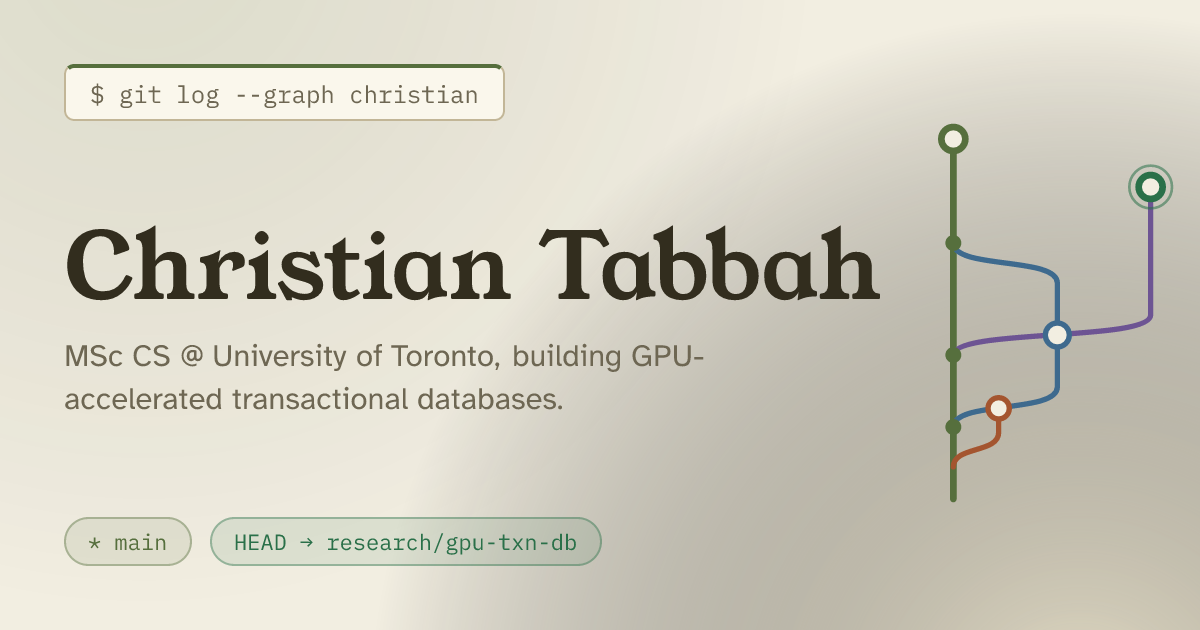
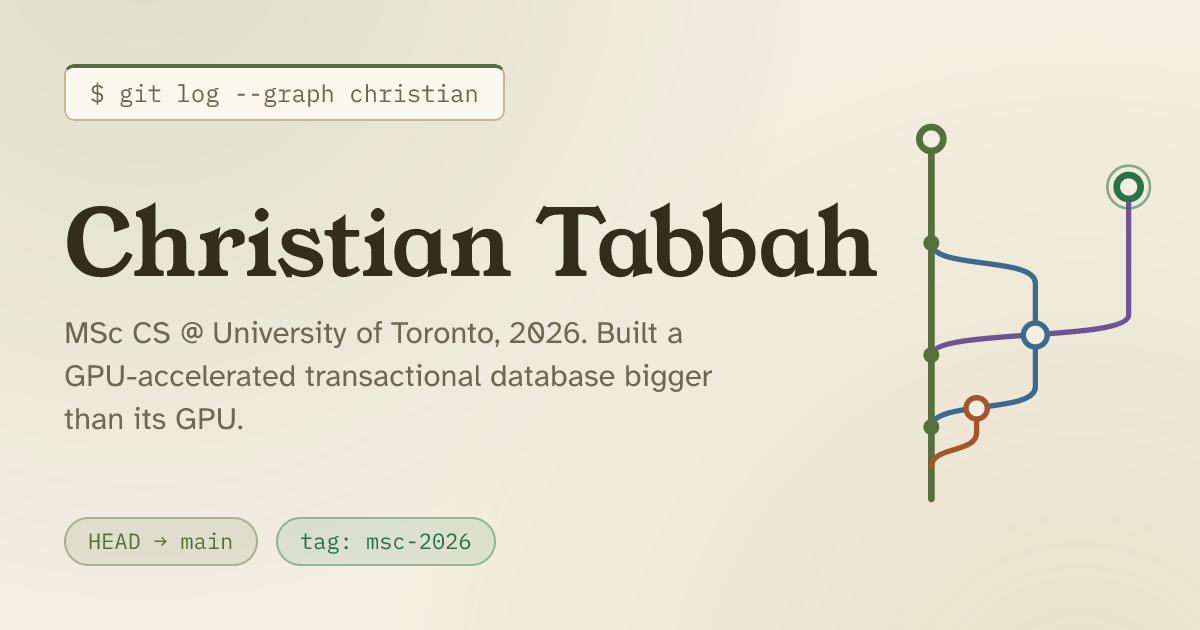
content: MSc and research wrap October 2026, both merge into main
Graduated October 26, 2026. The MSc and GPU transactional DB entries
end 2026-10 and merge back into main; no branch carries HEAD now, and
TIMELINE_NOW moves to 2026-11. Hero, milestone, and meta copy move to
past tense. The OG image is regenerated with the new text; the
generator now sets box-sizing, no-wrap, and flex-shrink explicitly so
current satori reproduces the original layout.

diff --git a/index.html b/index.html
@@ -14,7 +14,7 @@
     <title>Christian Tabbah · systems, databases, GPUs</title>
     <meta
       name="description"
-      content="MSc CS student at the University of Toronto building GPU-accelerated transactional databases. Longtime TA, ex-full-stack dev, black belt. My life, rendered as a git graph."
+      content="MSc CS grad from the University of Toronto who built a GPU-accelerated transactional database bigger than its GPU. Longtime TA, ex-full-stack dev, black belt. My life, rendered as a git graph."
     />
     <link rel="canonical" href="https://christiantabbah.com/" />
     <meta name="theme-color" content="#242b1c" />
@@ -23,7 +23,7 @@
     <meta property="og:title" content="Christian Tabbah · systems, databases, GPUs" />
     <meta
       property="og:description"
-      content="MSc CS student at UofT building GPU-accelerated transactional databases. My life, rendered as a git graph."
+      content="MSc CS grad from UofT who built a GPU-accelerated transactional database bigger than its GPU. My life, rendered as a git graph."
     />
     <meta property="og:url" content="https://christiantabbah.com/" />
     <meta property="og:image" content="https://christiantabbah.com/og.png" />
@@ -33,7 +33,7 @@
     <meta name="twitter:title" content="Christian Tabbah · systems, databases, GPUs" />
     <meta
       name="twitter:description"
-      content="MSc CS student at UofT building GPU-accelerated transactional databases. My life, rendered as a git graph."
+      content="MSc CS grad from UofT who built a GPU-accelerated transactional database bigger than its GPU. My life, rendered as a git graph."
     />
     <meta name="twitter:image" content="https://christiantabbah.com/og.png" />
   </head>

diff --git a/src/data/timeline.ts b/src/data/timeline.ts
@@ -22,7 +22,7 @@ export interface TimelineEntry {
 }
 
 /** Upper bound of the graph; bump this when adding new ongoing months. */
-export const TIMELINE_NOW: YM = '2026-07'
+export const TIMELINE_NOW: YM = '2026-11'
 
 export const timeline: TimelineEntry[] = [
   {
@@ -32,12 +32,10 @@ export const timeline: TimelineEntry[] = [
     org: 'University of Toronto',
     short: 'MSc research: GPU transactional DB',
     start: '2024-09',
-    end: 'ongoing',
-    refName: 'research/gpu-txn-db',
-    head: true,
+    end: '2026-10',
     bullets: [
       'Supervised by Dr. Angela Demke Brown & Dr. Ashvin Goel.',
-      'Building a GPU transactional database that operates beyond VRAM limits.',
+      'Built a GPU transactional database that operates beyond VRAM limits.',
       'GPU staging & eviction layer: device free-list ring, epoch-aware hot cache, selective dirty write-back, scatter-gather DMA.',
       'The goal: multi-million-key OLTP batches as a predictable, low-latency pipeline.',
     ],
@@ -65,11 +63,10 @@ export const timeline: TimelineEntry[] = [
     org: 'University of Toronto',
     short: 'MSc CS · UofT',
     start: '2024-09',
-    end: 'ongoing',
-    refName: 'education/msc',
+    end: '2026-10',
     bullets: [
-      'Expected to land October 2026.',
-      'Systems group. See research/gpu-txn-db for what I actually do all day.',
+      'Graduated October 26, 2026.',
+      'Systems group. See research/gpu-txn-db for what I actually did all day.',
     ],
     skills: [],
   },

diff --git a/src/data/about.ts b/src/data/about.ts
@@ -1,7 +1,7 @@
 // Content for the About page. Voice: first person, warm, a little playful.
 
 export const heroIntro: string[] = [
-  'I’m a master’s student at the University of Toronto, where I’m teaching a GPU to run a transactional database bigger than its own memory.',
+  'I just finished my master’s at the University of Toronto, where I taught a GPU to run a transactional database bigger than its own memory.',
   'Before that, I did four years of security-and-systems undergrad, a couple of years of full-stack work, and more TA office hours than I can count.',
 ]
 
@@ -35,9 +35,9 @@ export const accolades: Accolade[] = [
   },
   {
     id: 'msc',
-    tag: 'msc-in-progress',
+    tag: 'msc-2026',
     title: 'MSc Computer Science',
-    detail: 'UofT · in progress, expected October 2026',
+    detail: 'Systems group · UofT · 2024–2026',
   },
   {
     id: 'black-belt',
